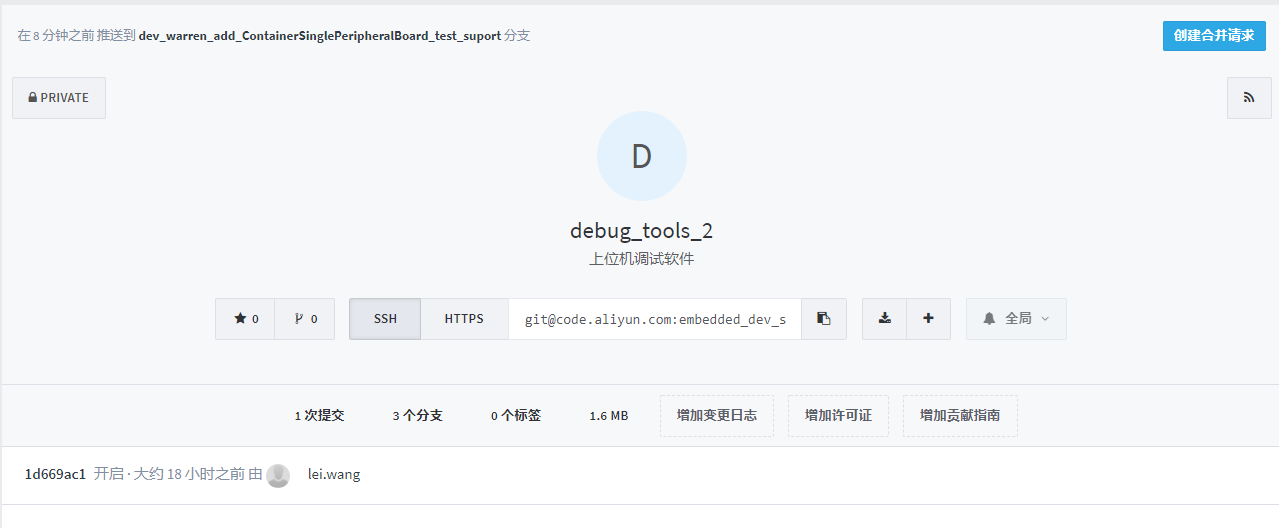
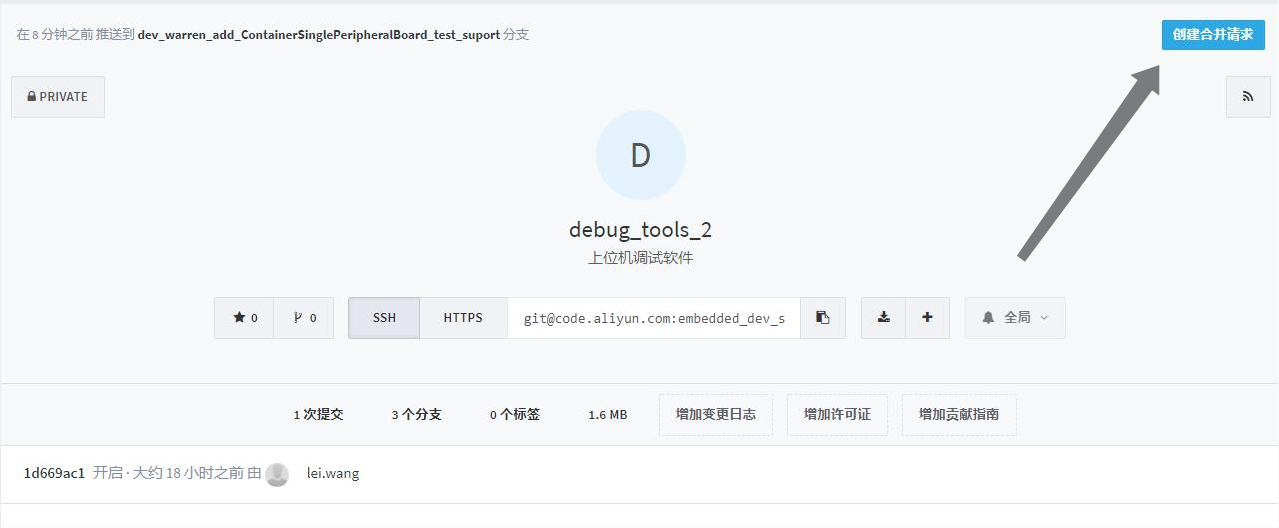
项目管理说明文档更新

diff --git a/项目管理系统使用说明/项目管理软件使用说明.md b/项目管理系统使用说明/项目管理软件使用说明.md
@@ -1,8 +1,8 @@
 # 项目管理系统使用说明
 
-|版本| 最近更新       |
-| ------------ | -------------- |
-| Vx.x.x | 2021年7月9日 |
+| 版本 |   最近更新    |修订人|审核人|
+| :--: | :------------:|:--: |:----:|
+|v1.0.0|2021年7月30日  | 许谦 |      |
 
 ## 软件准备  
 
@@ -50,7 +50,7 @@
 
 1. 找到你所需要拉取的阿里云上的项目，确认拉取方式为ssh方式，即地址开头为git，点**SSH**按钮可切换。之后点击![](/image/阿里云复制按钮.png)按钮，即可将仓库源地址复制下来  
 2. 在你的本地找到一个你需要存放项目的地方，右键鼠标，选择**Git Bash Here**，弹出git命令行界面  
-3. 拉取项目至本地
+3. 拉取项目至本地  
 
     ~~~bash
     git clone git@code.aliyun.com:xx    #"git@code.aliyun.com:xx"为你在步骤1中所复制的git仓库地址
@@ -63,6 +63,10 @@
     git config --global core.longpaths true
     ~~~
   
+4. 如果仓库已经在本地时，请先 ***git pull*** 更新仓库再进行下一步操作。  
+5. 确认指针指向的是最新的主分head处，新建一个分支，名称推荐为 ***dev_"your name"_功能名称*** 以便推送至阿里云上易于识别。此时你就可以写程序了，推荐在写完一个完整小模块后，经测试无误后就 ***git commit*** 一次，易于在写错后回溯。
+***(注：生成的bin文件以及ide产生的工程文件变化，不提倡与代码一起提交。建议确认工程已开发完成一次性提交，并且在commit上说明清楚)***  
+
 git使用教程推荐[廖雪峰的博客](https://www.liaoxuefeng.com/wiki/896043488029600)  以及[菜鸟教程](https://www.runoob.com/git/git-tutorial.html)  
 重点可关注git的**工作区**、**暂存区**和**版本库**的区别，以及git的**分支管理**，git的**提交**  
 
@@ -75,4 +79,18 @@ git使用教程推荐[廖雪峰的博客](https://www.liaoxuefeng.com/wiki/89604
 
 ## 项目的提交以及审核  
 
-待添加...  
+1. 登录你的阿里云找到你需要提交的项目仓库，点击右上角“**创建请求合并**”  
+![创建请求合并](/项目管理系统使用说明/image/点击请求合并.png)
+
+2. 点击进去后首先确认页面下方显示的**来源分支**与**目标分支**是否是你需要的，如果不是则点击下方修改分支进入修改分支页面
+
+3. 来源分支为你推送的，需要合并的分支。目标分支为你需要推送的分支
+![修改合并分支](/项目管理系统使用说明/image/请求合并_修改分支.png)  
+
+4. 确认你的分支是否已经全部提交完成再进行下一步操作，将页面拉到最下面可看到你的分支的提交记录，确认是否完整，如果不完整请在本地重新push本地分支一遍
+![查看提交](/项目管理系统使用说明/image/查看提交.png)  
+
+5. 点击后创建新的合并请求，填写标题以及描述，标题与描述使用中文进行填写，描述推荐使用markdown语法编辑，如有多个功能增加则按 ***1. 2.  3.*** 来进行描述
+![创建请求合并](/项目管理系统使用说明/image/创建新的请求合并.png)  
+
+6. 确认无误后点击**提交新的合并请求**按钮确认提交，等待管理员的审核。审核通过后则将会将你提交的分支合并进主分支，你所提交的分支将会删除，此时重新拉取主分支，确认你的分支已经合并进主分支后，可以将本地的分支删除了。
